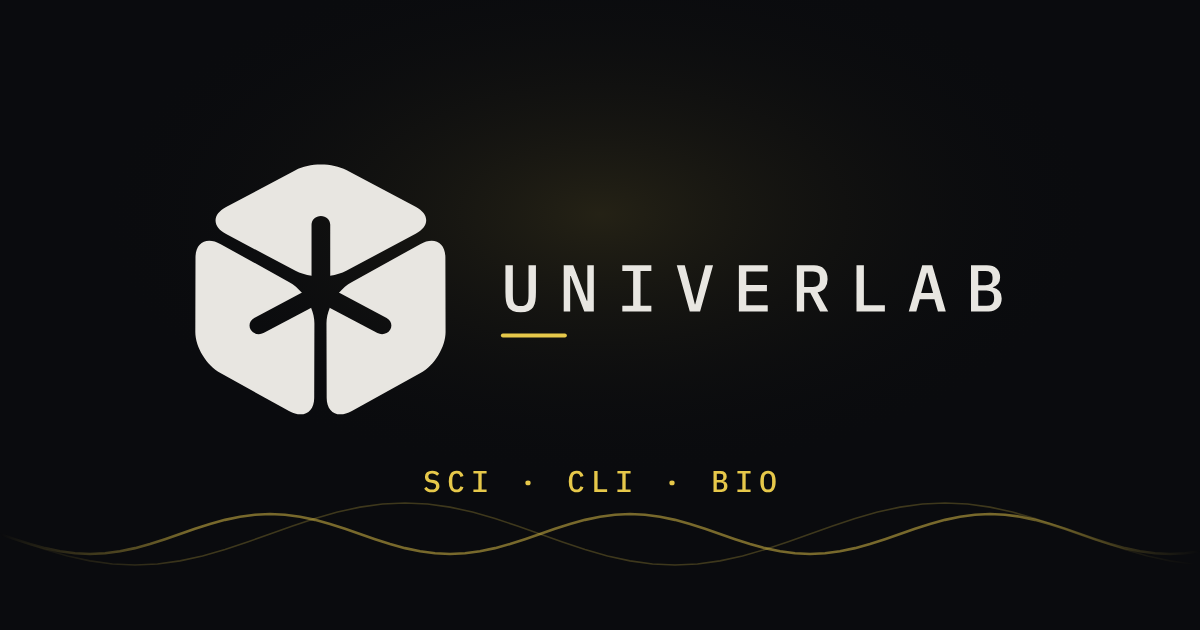
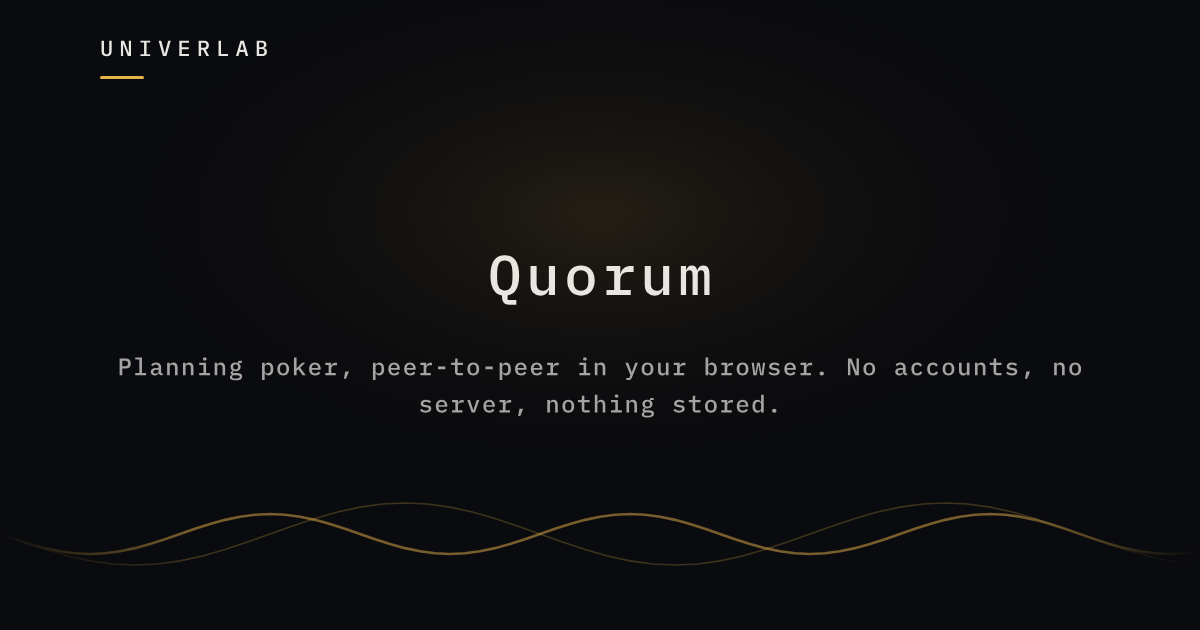
chore: trunk-based flow, approved manual release and Apache-2.0 (#14)
* fix(og): give the app its own card instead of the generic UniverLab one

* chore(license): relicense under Apache-2.0

* ci(deploy): trunk-based flow with a manual, approved release

diff --git a/README.md b/README.md
@@ -13,7 +13,7 @@
   <a href="https://github.com/UniverLab/quorum/actions/workflows/ci.yml"><img src="https://img.shields.io/github/actions/workflow/status/UniverLab/quorum/ci.yml?branch=main&style=for-the-badge&label=CI" alt="CI"/></a>
   <a href="https://quorum.univerlab.org"><img src="https://img.shields.io/badge/Live-quorum.univerlab.org-E6B24A?style=for-the-badge" alt="Live"/></a>
   <img src="https://img.shields.io/badge/Status-Active-27AE60?style=for-the-badge" alt="Status"/>
-  <a href="LICENSE"><img src="https://img.shields.io/badge/License-MIT-2E8B57?style=for-the-badge" alt="License"/></a>
+  <a href="LICENSE"><img src="https://img.shields.io/badge/License-Apache_2.0-2E8B57?style=for-the-badge" alt="License"/></a>
 </p>
 
 Browser-native planning poker for agile teams. No accounts, no server — share a room URL and estimate together. Peers talk to each other directly over WebRTC; your votes never touch a server.
